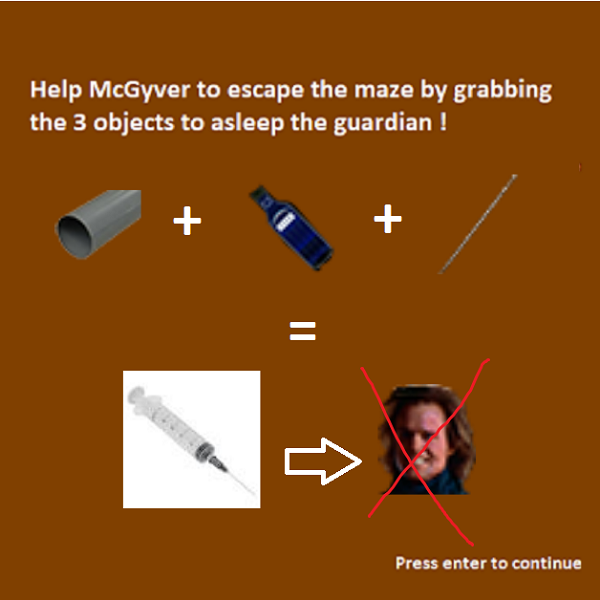
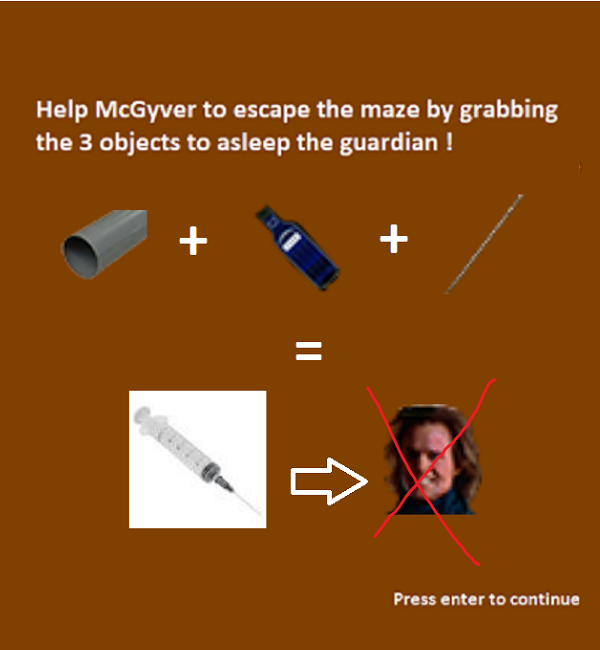
Adding of the inventory at the bottom of the screen

diff --git a/mcgyver/game.py b/mcgyver/game.py
@@ -90,9 +90,8 @@ def main():
             screen.blit(guardian.visual, (guardian.pos_x * sprite_size, guardian.pos_y * sprite_size))
 
             # INVENTORY
-            instructions = pygame.image.load(image_instructions).convert()
-            screen.blit(instructions, (0, 0))
-
+            inventory = pygame.image.load(image_inventory).convert()
+            screen.blit(inventory, (0, 600))
 
             for line in level.map:
                 for case in line:
@@ -126,7 +125,14 @@ def main():
 
             # Show inventory
             if len(mcgyver.items) != 0:
-                pass
+                if mcgyver.items[0] == "N":
+                    screen.blit(needle.im, (193, 605))
+                if mcgyver.items[0] == "N":
+                    screen.blit(needle.im, (193, 605))
+                if mcgyver.items[0] == "N":
+                    screen.blit(needle.im, (193, 605))
+
+                pygame.display.flip()
 
             # Mcgyver wins or not
             if mcgyver.mac_out(mcgyver.pos_x, mcgyver.pos_y) is False:
